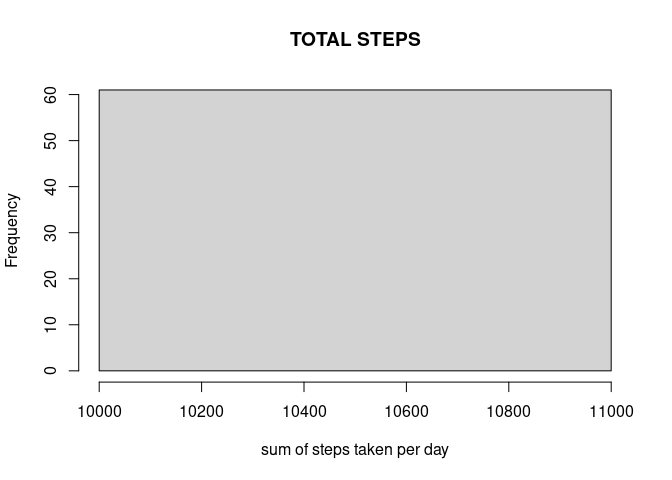
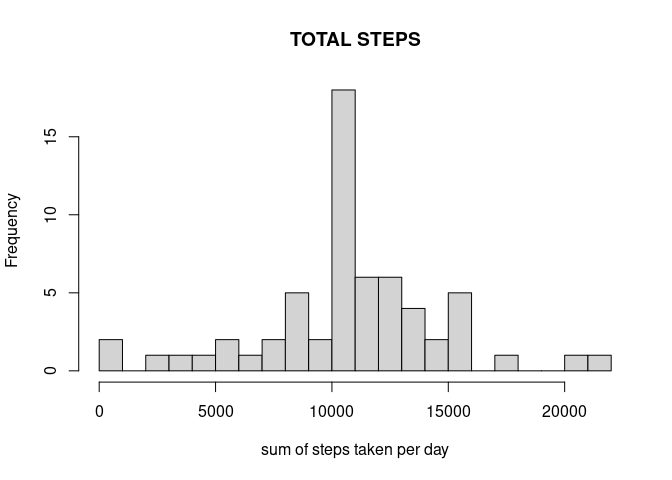
fixed missing replacament

diff --git a/PA1_template.html b/PA1_template.html
@@ -481,15 +481,8 @@ table(missing)</code></pre>
 ## FALSE  TRUE 
 ## 15264  2304</code></pre>
 <p>we can fill missing value by avg of interval that day</p>
-<pre class="r"><code>activityDataNa&lt;-transform(activityData,steps=intr_avg$avg)
-head(activityDataNa)</code></pre>
-<pre><code>##       steps       date interval
-## 1 1.7169811 2012-10-01        0
-## 2 0.3396226 2012-10-01        5
-## 3 0.1320755 2012-10-01       10
-## 4 0.1509434 2012-10-01       15
-## 5 0.0754717 2012-10-01       20
-## 6 2.0943396 2012-10-01       25</code></pre>
+<pre class="r"><code>replacewithmean &lt;- function(x) replace(x, is.na(x), mean(x, na.rm = TRUE))
+activityDataNa&lt;-activityData %&gt;% group_by(interval) %&gt;% mutate(steps= replacewithmean(steps)) </code></pre>
 <p>Calculating and report mean again</p>
 <pre class="r"><code>sumofStepsNA&lt;-tapply(activityDataNa$steps,activityDataNa$date,sum)
 meanstep&lt;-mean(sumofStepsNA)
@@ -503,8 +496,9 @@ print(mediansteps)</code></pre>
 <pre><code>## [1] &quot;median of steps without na:&quot;</code></pre>
 <pre><code>## [1] 10766.19</code></pre>
 <p>now the plot</p>
-<pre class="r"><code>hist(sumofStepsNA,xlab=&quot;sum of steps taken per day&quot;,main = &quot;TOTAL STEPS&quot;)</code></pre>
[1 lines of base64/hex data omitted]
+<pre class="r"><code>hist(sumofStepsNA,xlab=&quot;sum of steps taken per day&quot;,main = &quot;TOTAL STEPS&quot;,breaks=20)</code></pre>
[1 lines of base64/hex data omitted]
+<p>we see that chaning and inputing missing data could have a greta impact on value of mean and media!</p>
 </div>
 <div id="are-there-differences-in-activity-patterns-between-weekdays-and-weekends" class="section level2">
 <h2>Are there differences in activity patterns between weekdays and weekends?</h2>

diff --git a/PA1_template.md b/PA1_template.md
@@ -129,18 +129,8 @@ we can fill missing value by avg of interval that day
 
 
 ```r
-activityDataNa<-transform(activityData,steps=intr_avg$avg)
-head(activityDataNa)
-```
-
-```
-##       steps       date interval
-## 1 1.7169811 2012-10-01        0
-## 2 0.3396226 2012-10-01        5
-## 3 0.1320755 2012-10-01       10
-## 4 0.1509434 2012-10-01       15
-## 5 0.0754717 2012-10-01       20
-## 6 2.0943396 2012-10-01       25
+replacewithmean <- function(x) replace(x, is.na(x), mean(x, na.rm = TRUE))
+activityDataNa<-activityData %>% group_by(interval) %>% mutate(steps= replacewithmean(steps)) 
 ```
 
 Calculating and report mean again 
@@ -175,9 +165,12 @@ print(mediansteps)
 now the plot 
 
 ```r
-hist(sumofStepsNA,xlab="sum of steps taken per day",main = "TOTAL STEPS")
+hist(sumofStepsNA,xlab="sum of steps taken per day",main = "TOTAL STEPS",breaks=20)
 ```
 
 ![](PA1_template_files/figure-html/unnamed-chunk-14-1.png)<!-- -->
+
+we see that chaning and inputing missing data could have a greta impact on value of mean and media!
+
 
 ## Are there differences in activity patterns between weekdays and weekends?
